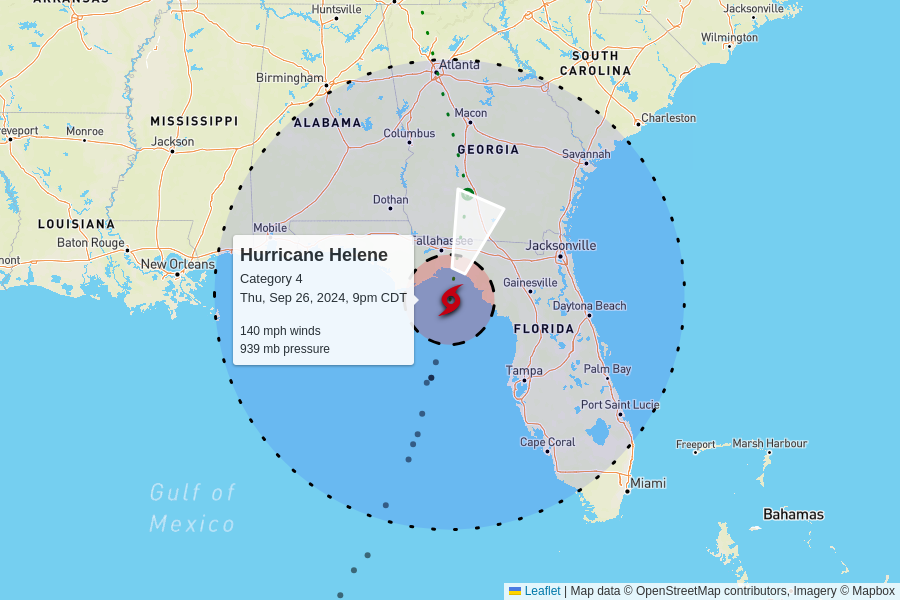
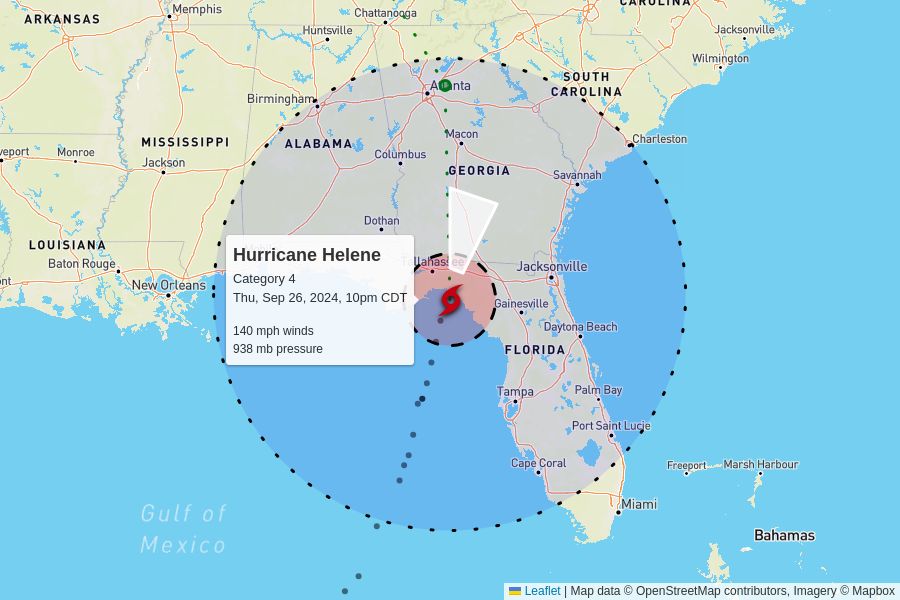
automatic update

diff --git a/docs/index.html b/docs/index.html
@@ -104,7 +104,7 @@
         <td colspan="6" class="storm category-4" >
           <h2>
             Hurricane Helene - Category 4
-            <p class="updated">last updated <span data-time>2024-09-27T02:00:00.000Z</span></p>
+            <p class="updated">last updated <span data-time>2024-09-27T03:00:00.000Z</span></p>
           </h2>
         </td>
       </tr>
@@ -120,11 +120,11 @@
       <tr>
         <td class="spacer"></td>
         <td>140 mph<br>0 mph since last update</td>
-        <td>939 mb<br>-2 mb since last update</td>
+        <td>938 mb<br>-1 mb since last update</td>
         <td>
           24 mph to the north-northeast
           <br/>
-          <span style="display: inline-block; font-size: 1.5em; transform: rotate(20deg);">↑</span>
+          <span style="display: inline-block; font-size: 1.5em; transform: rotate(15deg);">↑</span>
         </td>
         <td><a href="https://raw.githubusercontent.com/mgwalker/atlantic-hurricanes/main/data/csv/AL092024.csv">AL092024.csv</a></td>
         <td><a href="https://www.nhc.noaa.gov/archive/2024/HELENE.shtml?">NHC advisories</a></td>
@@ -148,7 +148,7 @@
         <td colspan="6" class="storm category-0" >
           <h2>
             Tropical Storm Isaac
-            <p class="updated">last updated <span data-time>2024-09-26T21:00:00.000Z</span></p>
+            <p class="updated">last updated <span data-time>2024-09-27T03:00:00.000Z</span></p>
           </h2>
         </td>
       </tr>
@@ -163,12 +163,12 @@
       </tr>
       <tr>
         <td class="spacer"></td>
-        <td>50 mph<br>0 mph since last update</td>
-        <td>995 mb<br>-2 mb since last update</td>
+        <td>65 mph<br>+15 mph since last update</td>
+        <td>992 mb<br>-3 mb since last update</td>
         <td>
-          10 mph to the east
+          12 mph to the east
           <br/>
-          <span style="display: inline-block; font-size: 1.5em; transform: rotate(80deg);">↑</span>
+          <span style="display: inline-block; font-size: 1.5em; transform: rotate(90deg);">↑</span>
         </td>
         <td><a href="https://raw.githubusercontent.com/mgwalker/atlantic-hurricanes/main/data/csv/AL102024.csv">AL102024.csv</a></td>
         <td><a href="https://www.nhc.noaa.gov/archive/2024/ISAAC.shtml?">NHC advisories</a></td>
